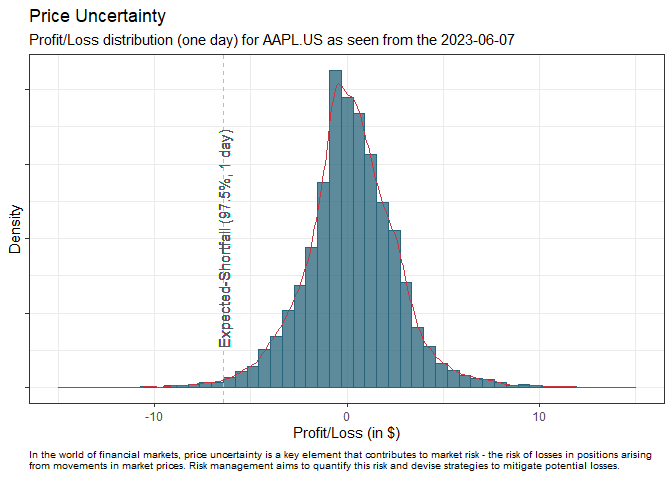
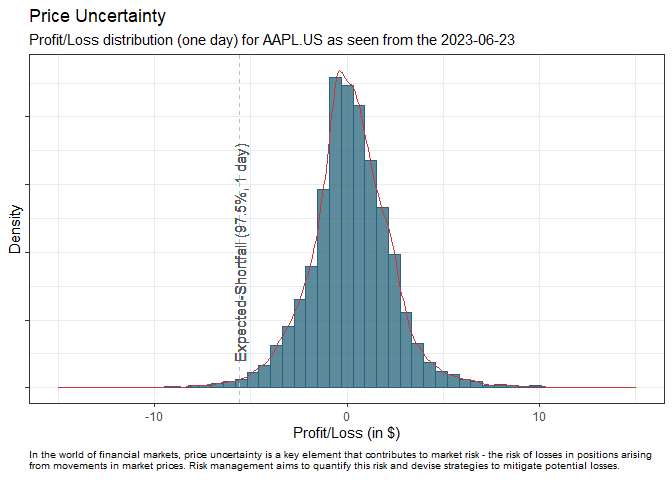
Added the function 'envrsk_portfolio_portfolio_hyp_rskadj_perf_component'

diff --git a/README.md b/README.md
@@ -57,7 +57,7 @@ devtools::install_github("EnvisionRisk/EnvisionRiskRaaS")
 Although the following example may appear simple, it’s designed to
 illustrate how our service functions by requesting the simulated
 profit/loss (P/L) distribution for a single instrument — Apple (AAPL.US)
-as of 2023-06-07. Remember, this is just a starting point; our service
+as of 2023-06-23. Remember, this is just a starting point; our service
 also allows you to request simulated P/L distribution for your custom
 portfolios. Through this, you gain invaluable insights into potential
 future outcomes, enabling you to make informed investment decisions.
@@ -120,10 +120,12 @@ use_symbol <- "AAPL.US"
 api_response <- EnvisionRiskRaaS::envrsk_instrument_delta_vector_raw(
   date   = use_date, 
   symbol = use_symbol)
+#> Please enter password in TK window (Alt+Tab)
+#> Please enter password in TK window (Alt+Tab)
 
-# Use our advanced API to request an Expected-Shortfall calculation, set at a 
-# 97.5% confidence level over a 1-day horizon, employing a point-in-time 
-# volatility scenario.
+# Leverage our sophisticated API to conduct an Expected-Shortfall computation, 
+# specified at a 97.5% confidence level across a single-day span, utilizing a 
+# point-in-time volatility scenario.
 api_response_es <- EnvisionRiskRaaS::envrsk_instrument_expected_shortfall_raw(
   date   = use_date, 
   symbol = use_symbol,
